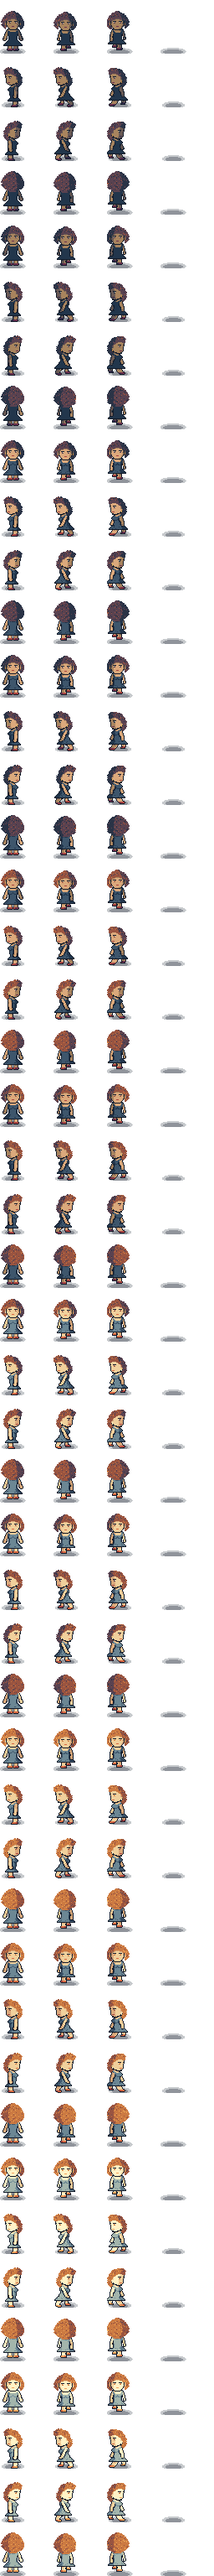
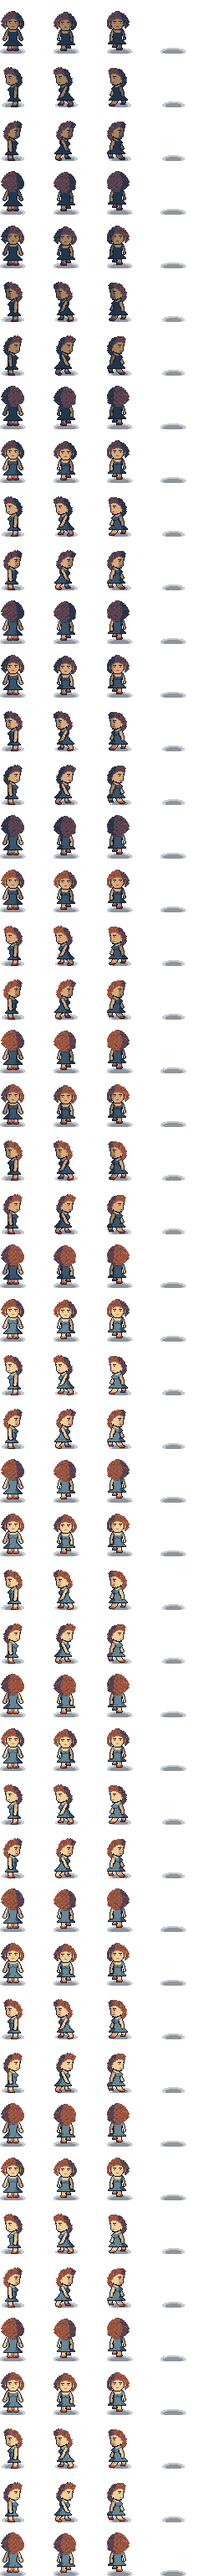
art: the cast stops brightening at light 0.5, so it does not wash out in bright patches (#69)
Lifted 1 to 1.5 steps, every part ran into the ramps' shared pale amber:
skin went pale, hair and shirts went orange. Light now lifts a figure no
more than LIFT (0.5), and only a white part reaches HI. Sheets 8 to 11
match the 0.5 sheets; the dark end is unchanged.

Changed region(s): [[0.5, 0.6562, 0.5938, 1.0], [0.25, 0.6562, 0.3438, 1.0], [0.0, 0.6875, 0.125, 1.0]]

diff --git a/art/cast.py b/art/cast.py
@@ -22,6 +22,7 @@ ART = os.path.dirname(os.path.abspath(__file__))
 PUBLIC = os.path.join(ART, '..', 'public')
 OUT = os.path.join(PUBLIC, 'cast')
 FRAME, READ = 64, 40
+LIFT = .5                       # the most light lifts a figure, in ramp steps (draw.LEVELS go to 1.5)
 
 WHITE, EYES, SKIN, SKIN_SHADE = (PAPER, 5), (DESK, 2), (CARD, 4), (CARD, 3)
 LINE = {'000000': None, '150908': None}
@@ -58,8 +59,10 @@ def figure(src, table, here, from_right):
             if part is None:
                 yield sx, sy, rgb(K); continue
             far = (sx - xs[0]) < .3 * (xs[-1] - xs[0]) if from_right else (xs[-1] - sx) < .3 * (xs[-1] - xs[0])
-            # a light part (level 2.5 and up) never falls below step 2 on its near side, so it stays light in the dark
-            step = max(2 if part[1] >= 2.5 else 1, min(6, int(part[1] + here + .5)))
+            # a light part (level 2.5 and up) never falls below step 2 on its near side, so it stays light in the dark;
+            # bright light lifts a part no more than LIFT, and only a white part reaches HI: lifted further, every
+            # ramp runs into the same pale amber and the figure washes out
+            step = max(2 if part[1] >= 2.5 else 1, min(6 if part[1] >= 5 else 5, int(part[1] + min(here, LIFT) + .5)))
             yield sx, sy, rgb(RAMPS[part[0]][max(1, step - far)])
 
 
